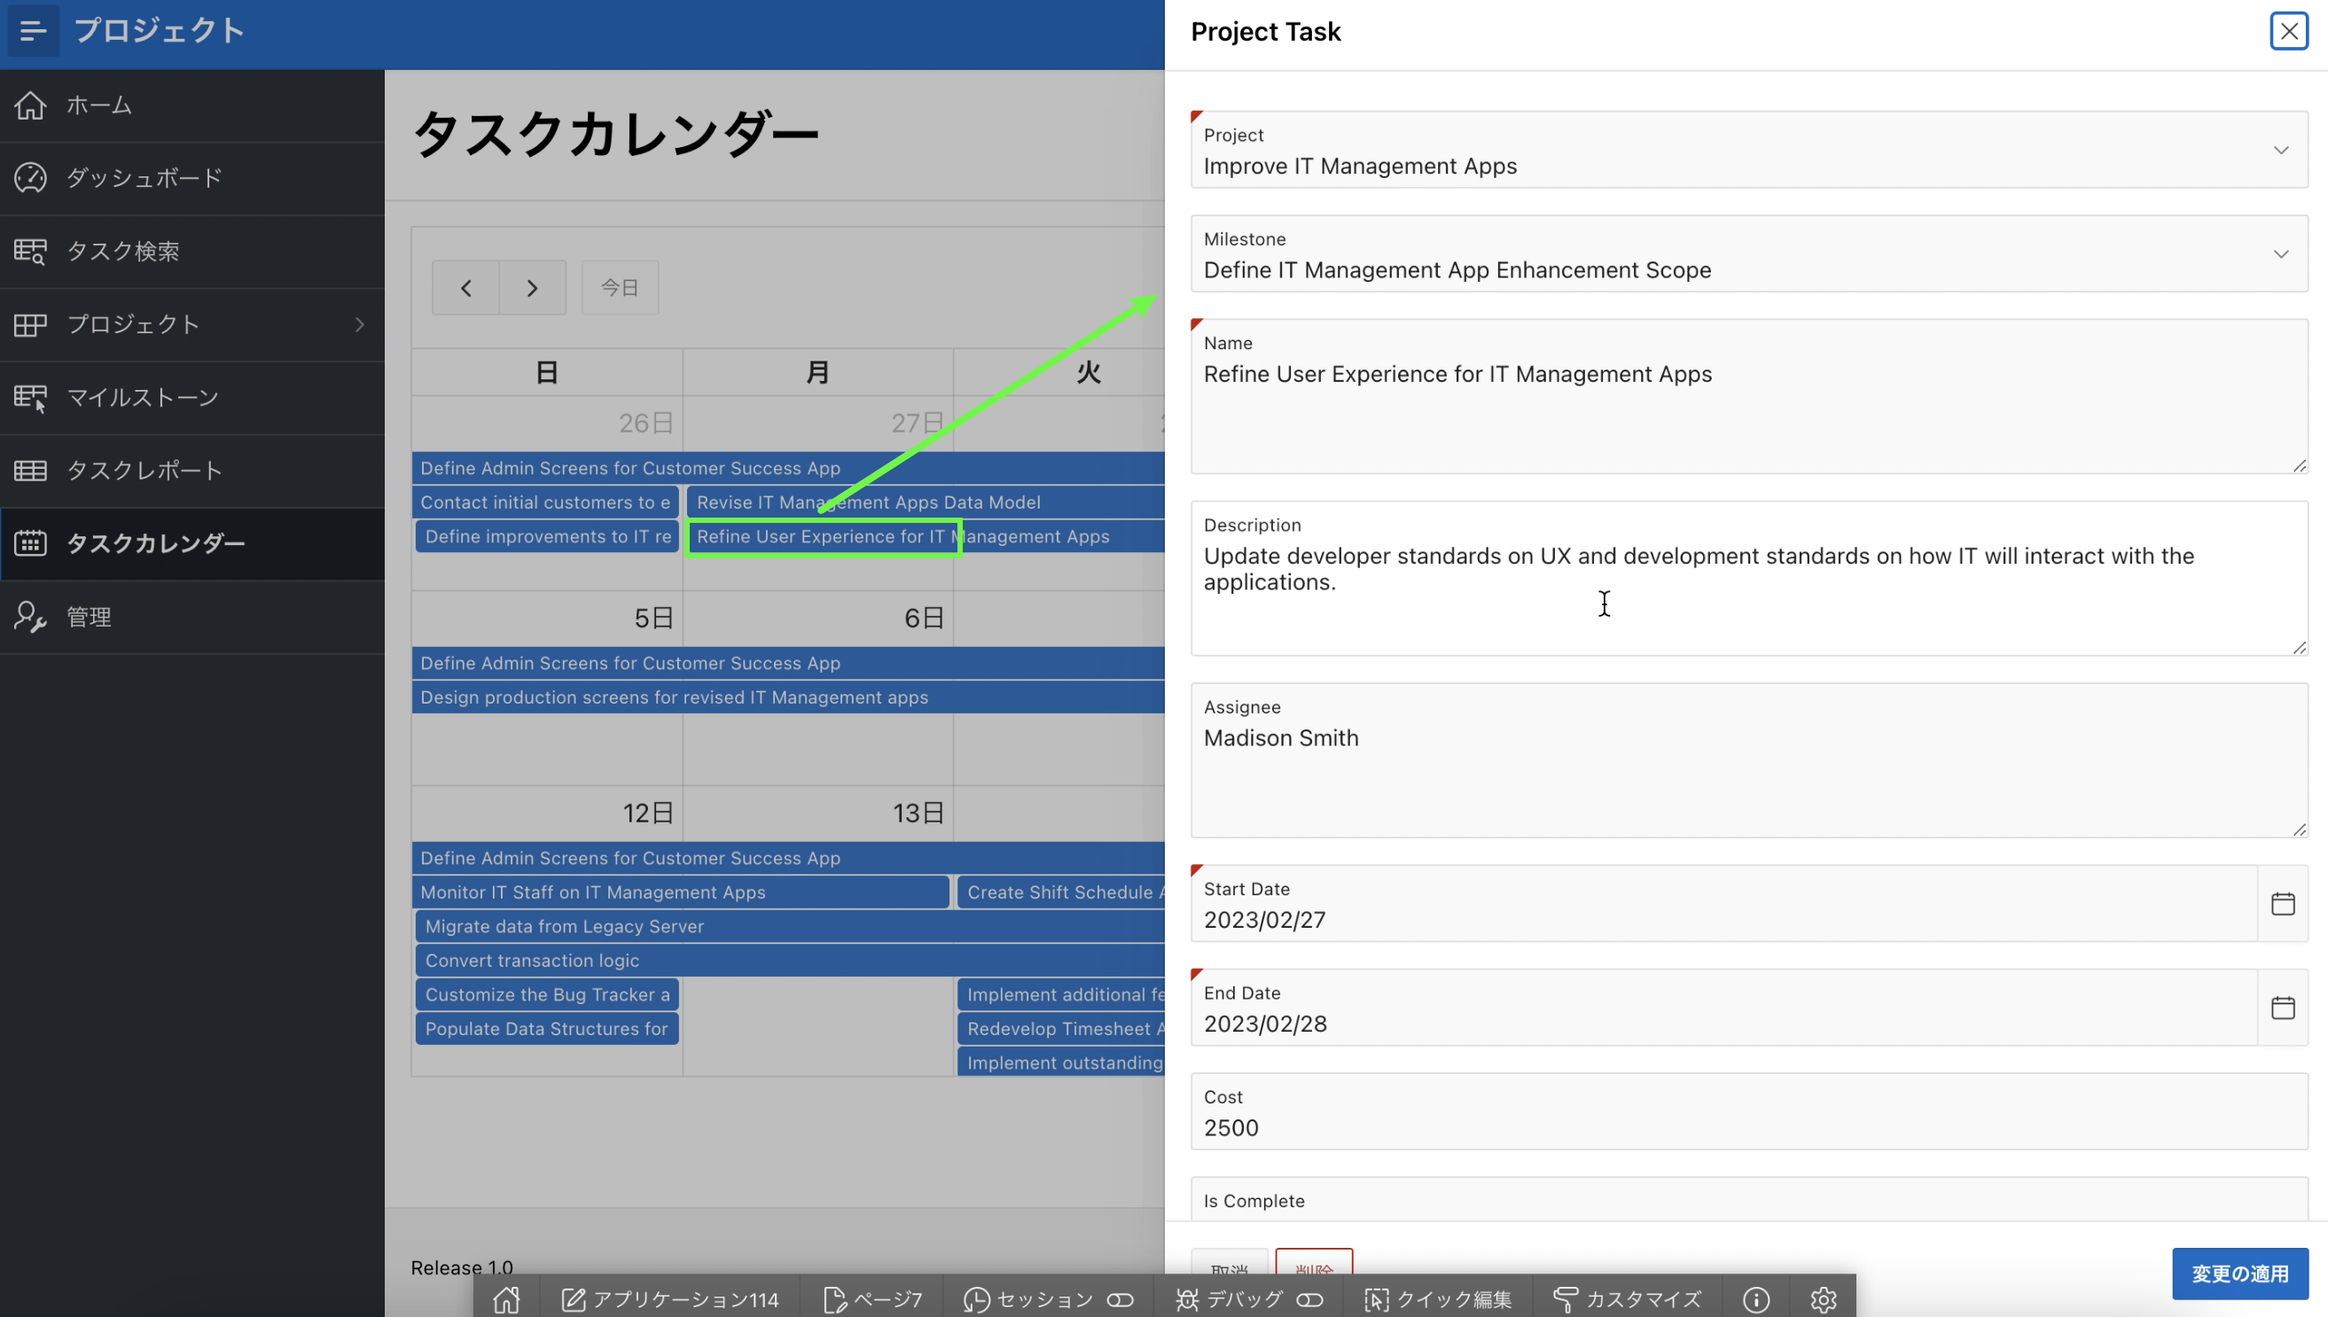
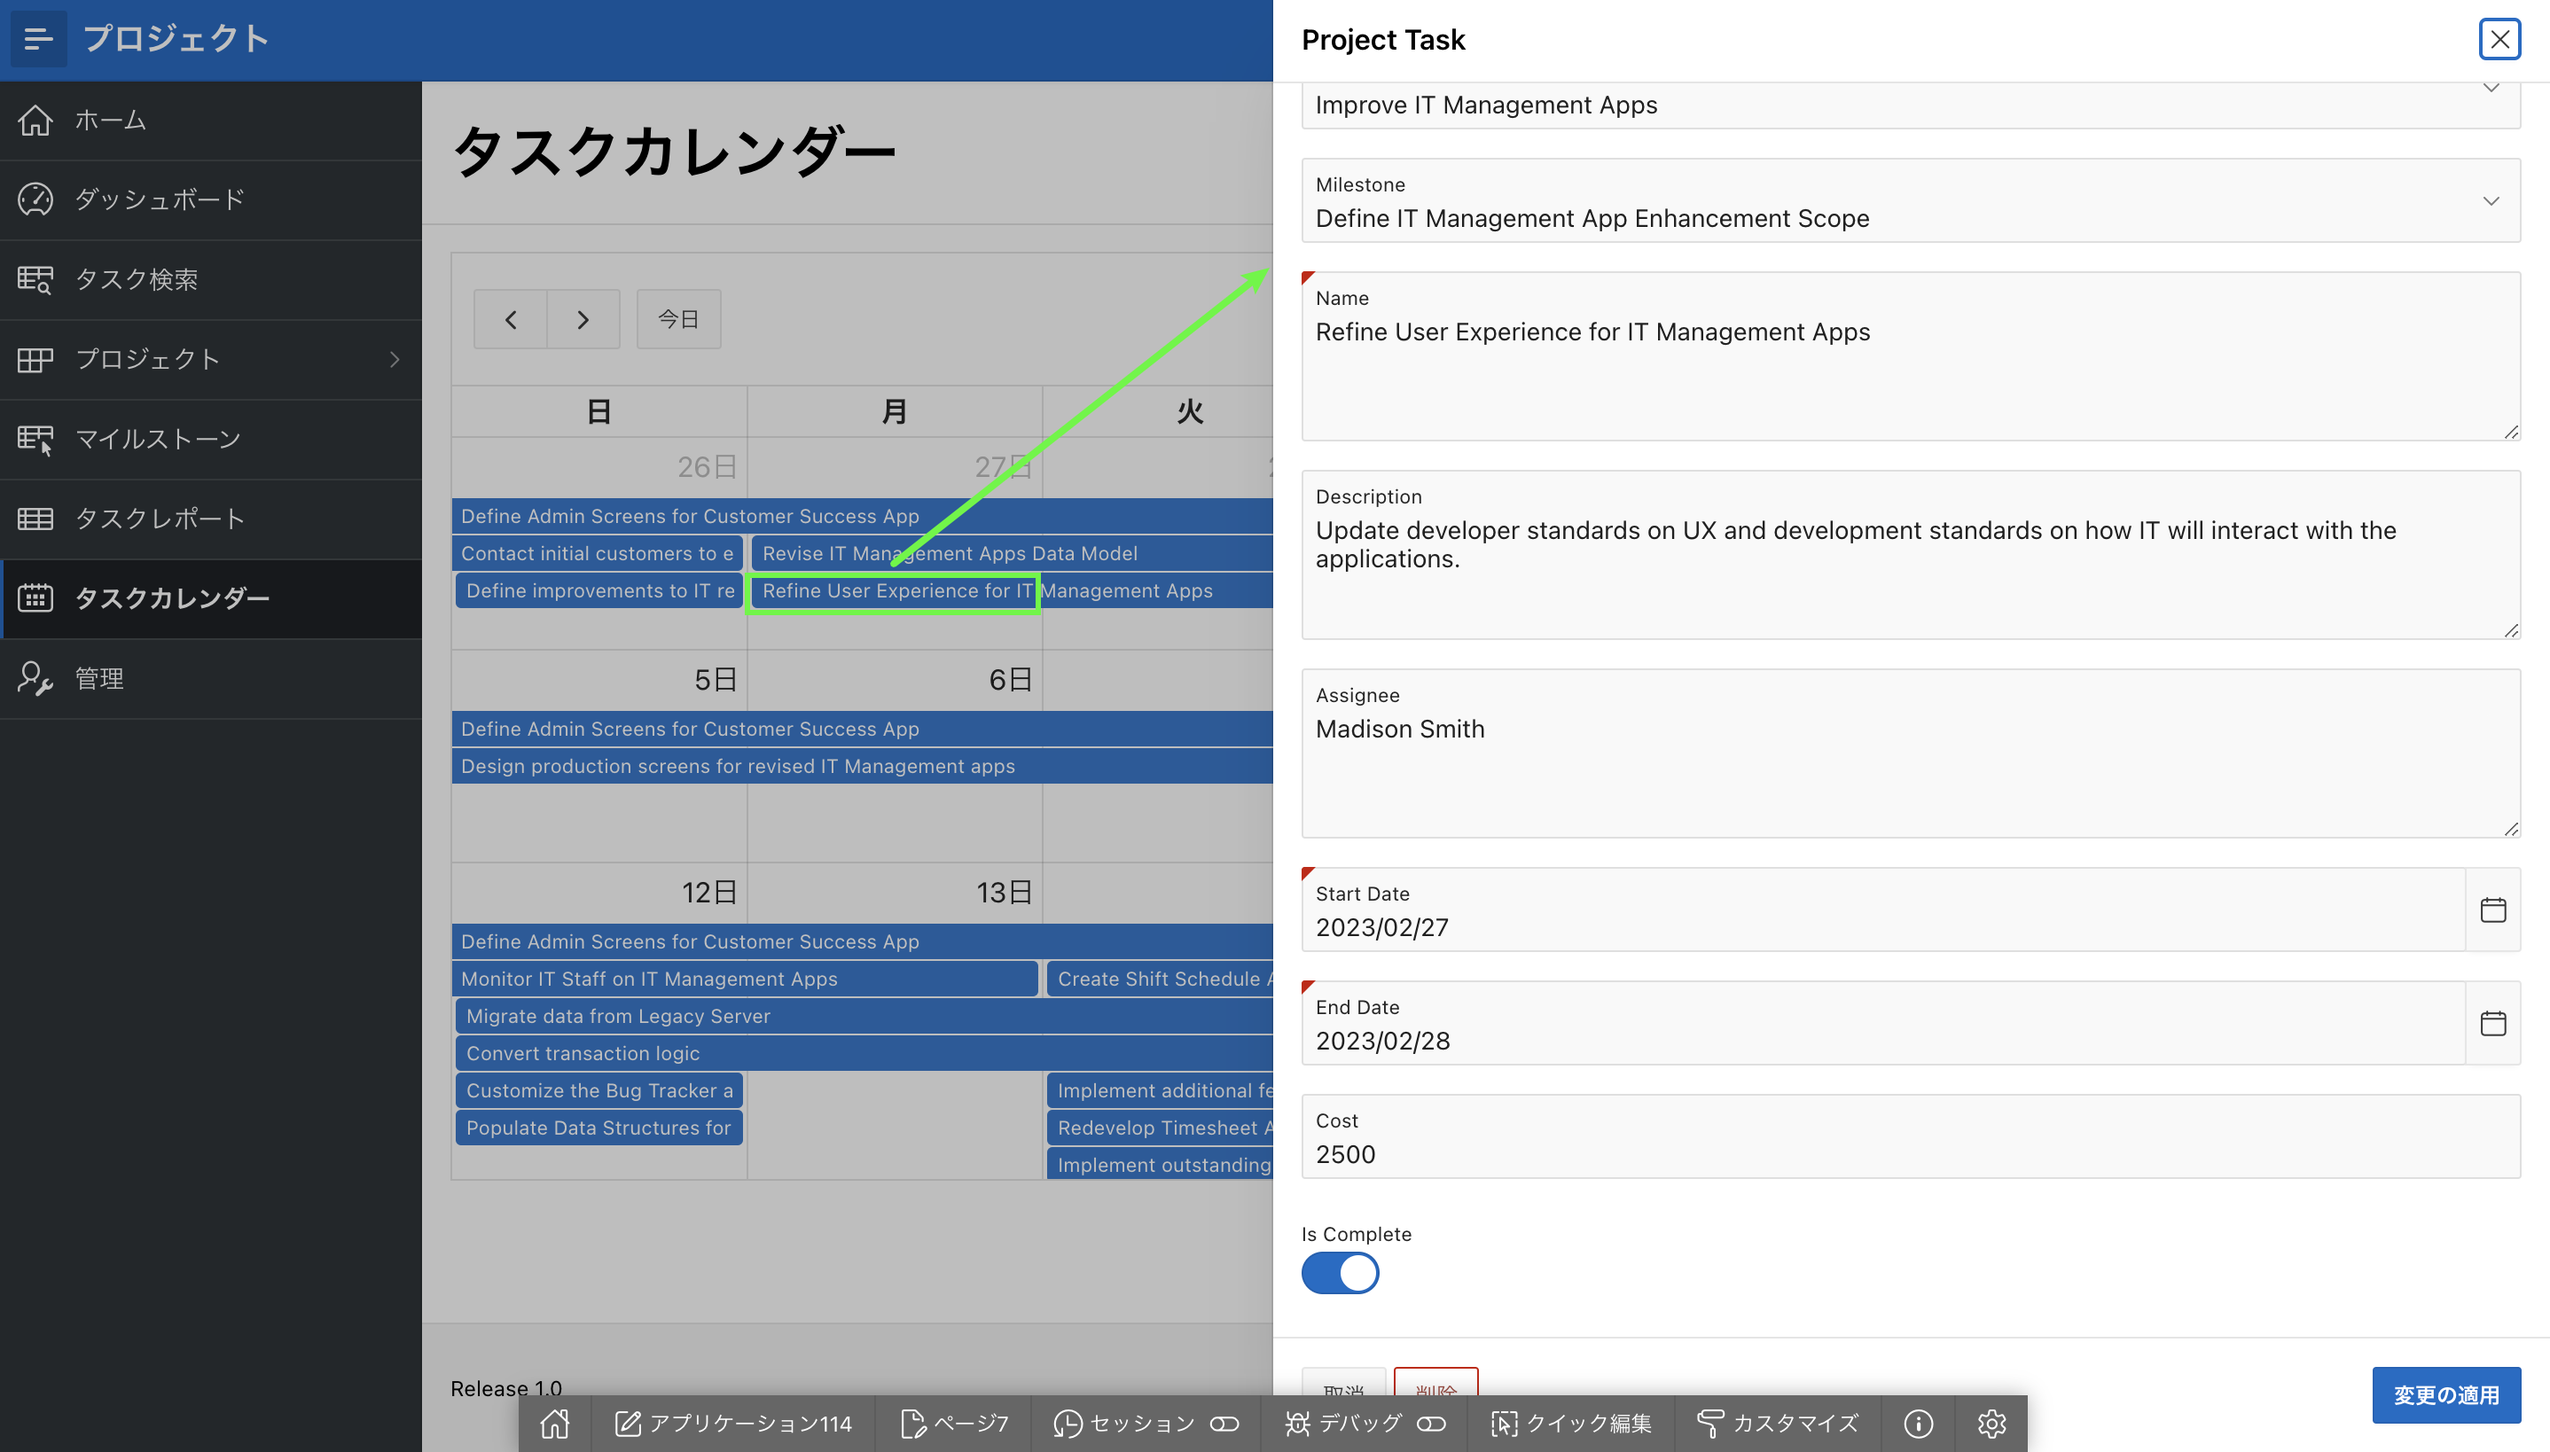
change translation

diff --git a/ja-jp-existing-tables/8-improving-tasks/8-improving-tasks.md b/ja-jp-existing-tables/8-improving-tasks/8-improving-tasks.md
@@ -122,9 +122,25 @@ LOV はページ上で直接定義できます。 ただし、ここで行うよ
 
     ![](images/ir-complete.png " ")
 
-4. レコードの編集アイコンをクリックします。
-     Is Complete は選択リストを使用するため、フォームページを変更する必要がないことに注意してください。   
-     *注: フォーム ページは、次のパートで必要になるページ 7 です*
+4. レコードの編集アイコンをクリックして、[Project Task]ページが表示されます。  
+    Is Completeは今テキスト・フィールドを使っています、これからIs Completeを切替えに変更します。   
+     **ページ7**をクリックして、編集画面に遷移します。 
+    ![](images/go-form.png " ") 
+    *注: Project Taskページは、次のパートで必要になるページ 7 です*
+
+5. レンダリング・ツリー(左ペイン) で、**IS\_COMPLETE\_YN**をクリックします。
+    プロパティ・エディター(右側のペイン) の [識別] > [タイプ] で、[**切替え**]を選択します。
+    **保存**をクリックして、編集内容を保存します。
+    ![](images/edit-form.png " ") 
+
+5. レンダリング・ツリー(左ペイン) で、**IS\_COMPLETE\_YN**をクリックします。
+    プロパティ・エディター(右側のペイン) の [識別] > [タイプ] で、[**切替え**]を選択します。
+    **保存**をクリックして、編集内容を保存します。
+    ![](images/edit-form.png " ") 
+6. ランタイム環境に戻り、ブラウザーを更新します。  
+    レコードの編集アイコンをクリックして、[Project Task]ページが表示されます。  
+    Is Completeは今切替えになります。
+    ![](images/form-complete.png " ") 
 
 ## タスク4: カレンダーをリンクする
 タスクカレンダーページには、多数のタスクが表示されます。 ただし、レコードを直接変更する方法はありません。 これから既存のプロジェクト タスク フォーム ページへのリンクを追加する必要があります。
@@ -148,7 +164,7 @@ LOV はページ上で直接定義できます。 ただし、ここで行うよ
 
     ![](images/set-link.png " ")
 
-7. プロジェクトタスクフォームページがカレンダーから呼び出されたときに、タスク名、開始日、または終了日が更新された場合、カレンダーが更新されることが重要です。
+7. Project Taskページがカレンダーから呼び出されたときに、タスク名、開始日、または終了日が更新された場合、カレンダーが更新されることが重要です。
      - レンダリング・ツリー(左ペイン)で、**タスクカレンダー**を _右クリック_ します。
      - **動的アクションの作成**を選択します。
 
@@ -158,7 +174,7 @@ LOV はページ上で直接定義できます。 ただし、ここで行うよ
      - 識別 > 名前 - **カレンダーを更新**を入力します
      - タイミング > イベント - **ダイアログのクローズ**を選択します。
 
-    *注意: モーダルページであるため、プロジェクトタスクフォームページが閉じられると、カレンダーの更新イベントが発生します*
+    *注意: モーダルページであるため、Project Taskページが閉じられると、カレンダーの更新イベントが発生します*
 
     ![](images/name-da.png " ")
 
@@ -177,7 +193,7 @@ LOV はページ上で直接定義できます。 ただし、ここで行うよ
 
     ![](images/final-cal.png " ")
 
-    名前、開始日、または終了日を更新し、[プロジェクトタスクフォーム] ページで [**変更の適用**]をクリックすると、変更がすぐにカレンダーに反映されます。
+    名前、開始日、または終了日を更新し、[Project Task] ページで [**変更の適用**]をクリックすると、変更がすぐにカレンダーに反映されます。
 
 ## **まとめ**
 
